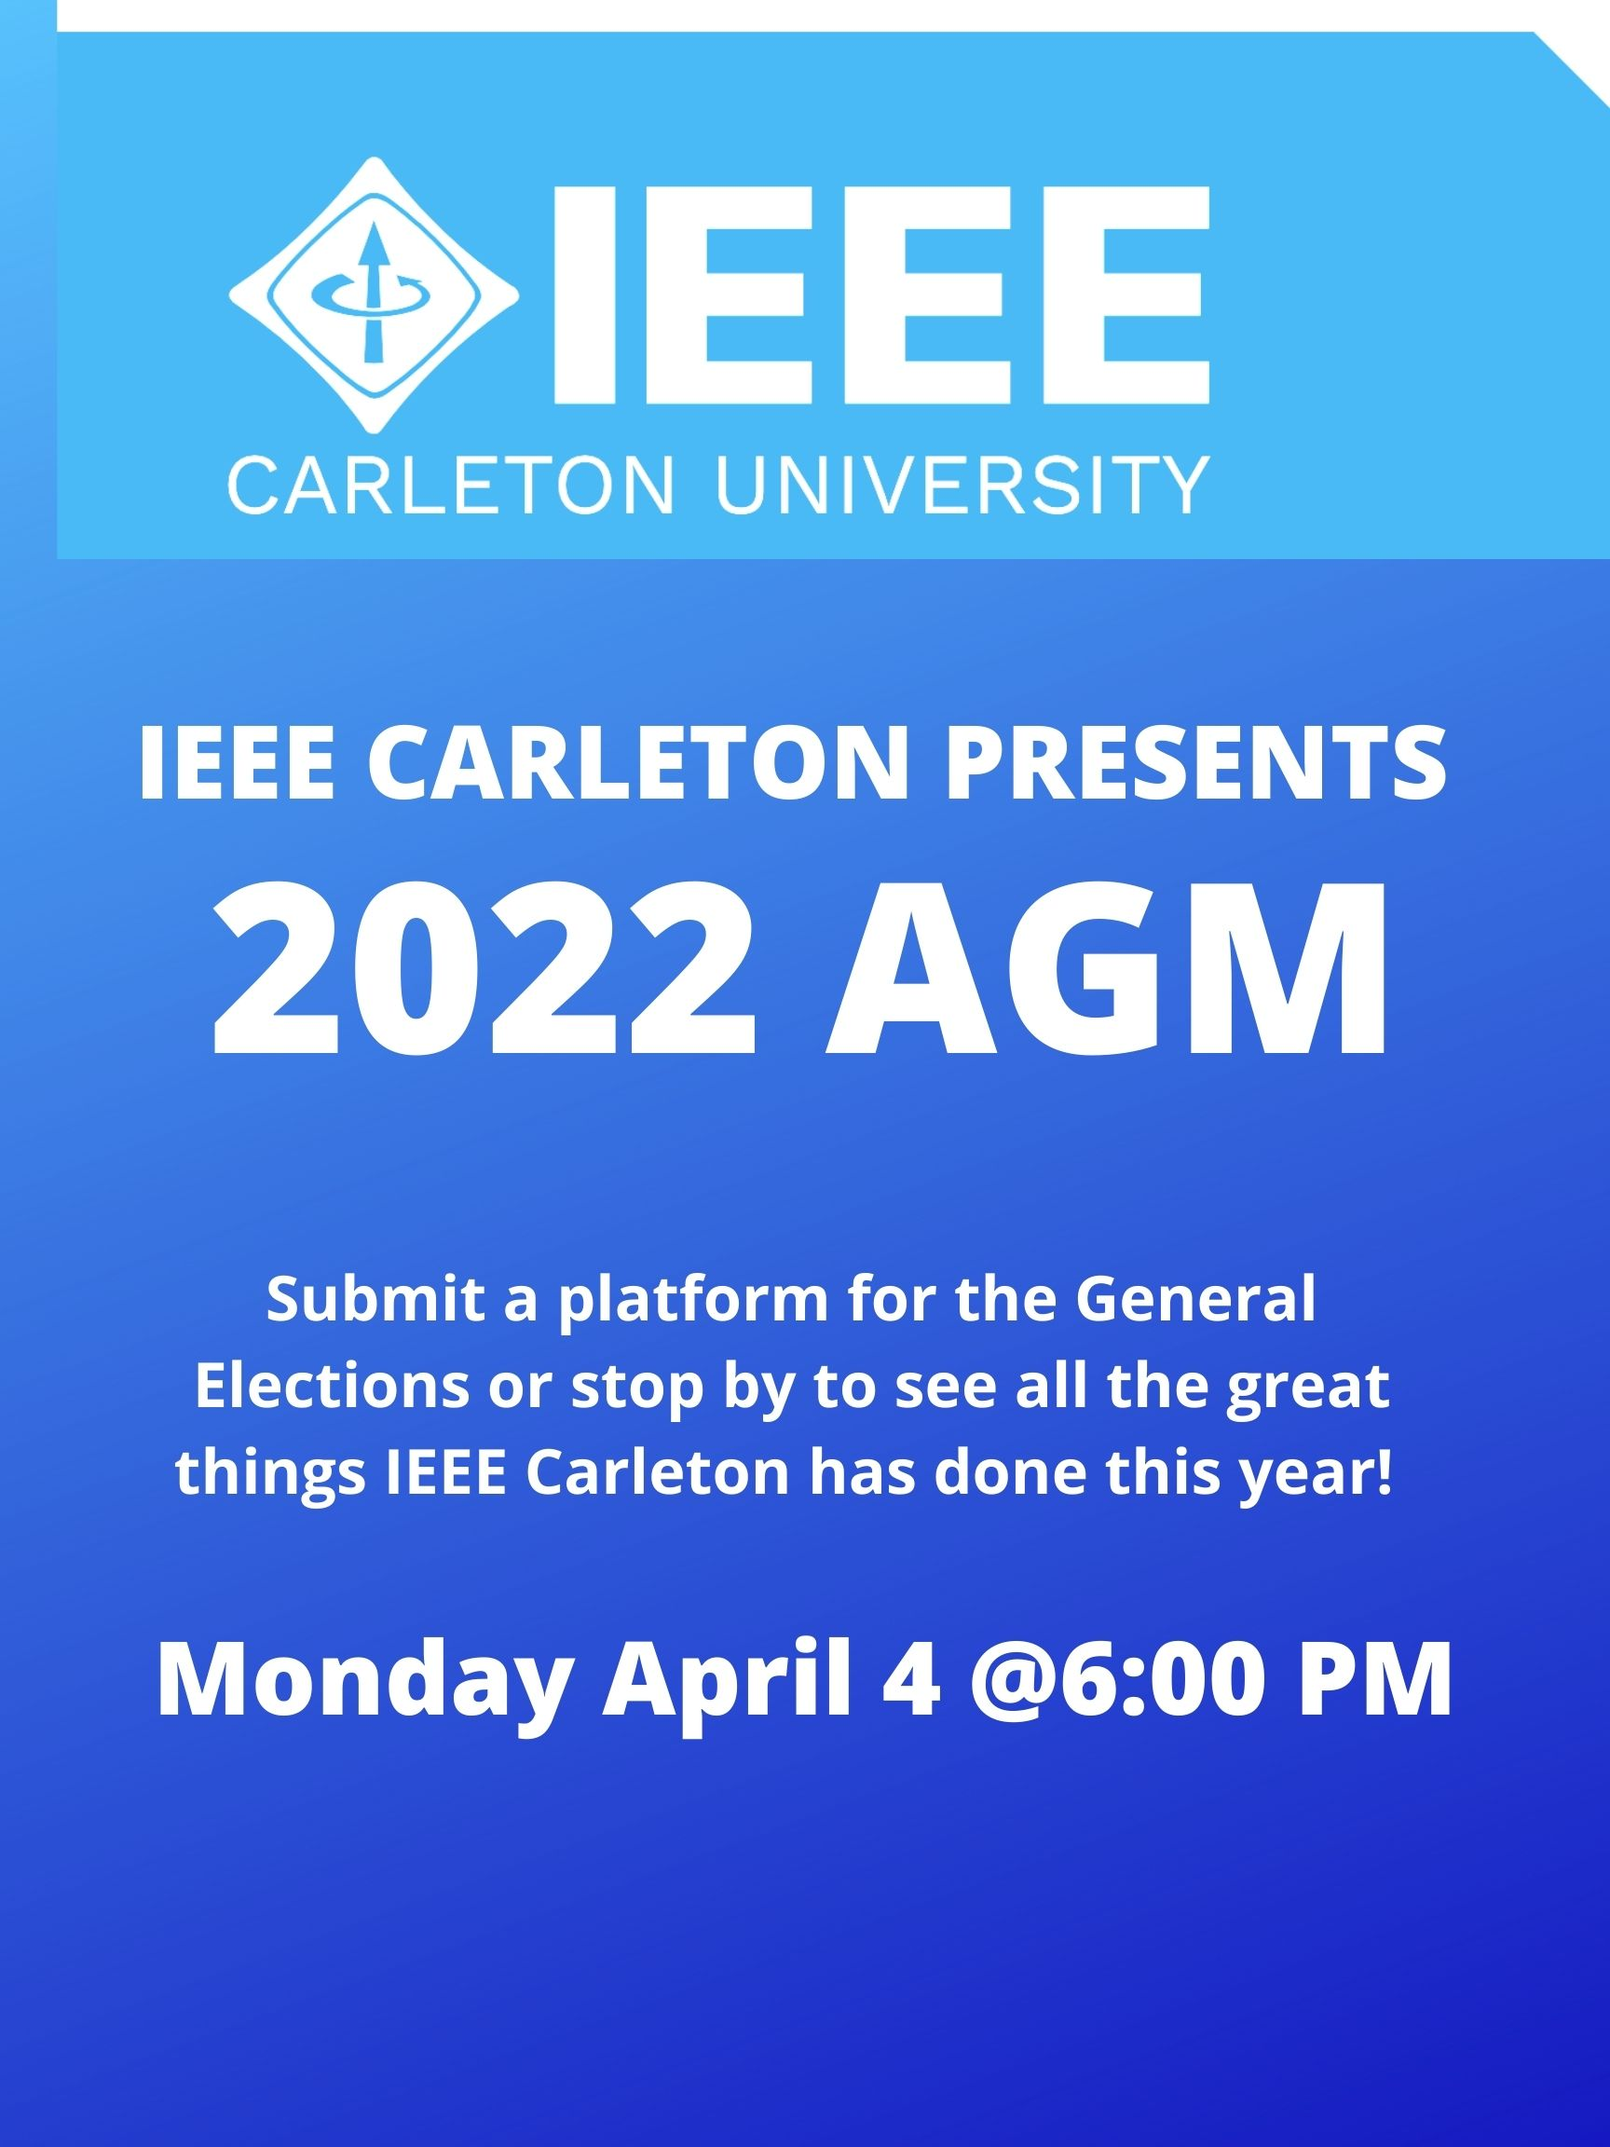
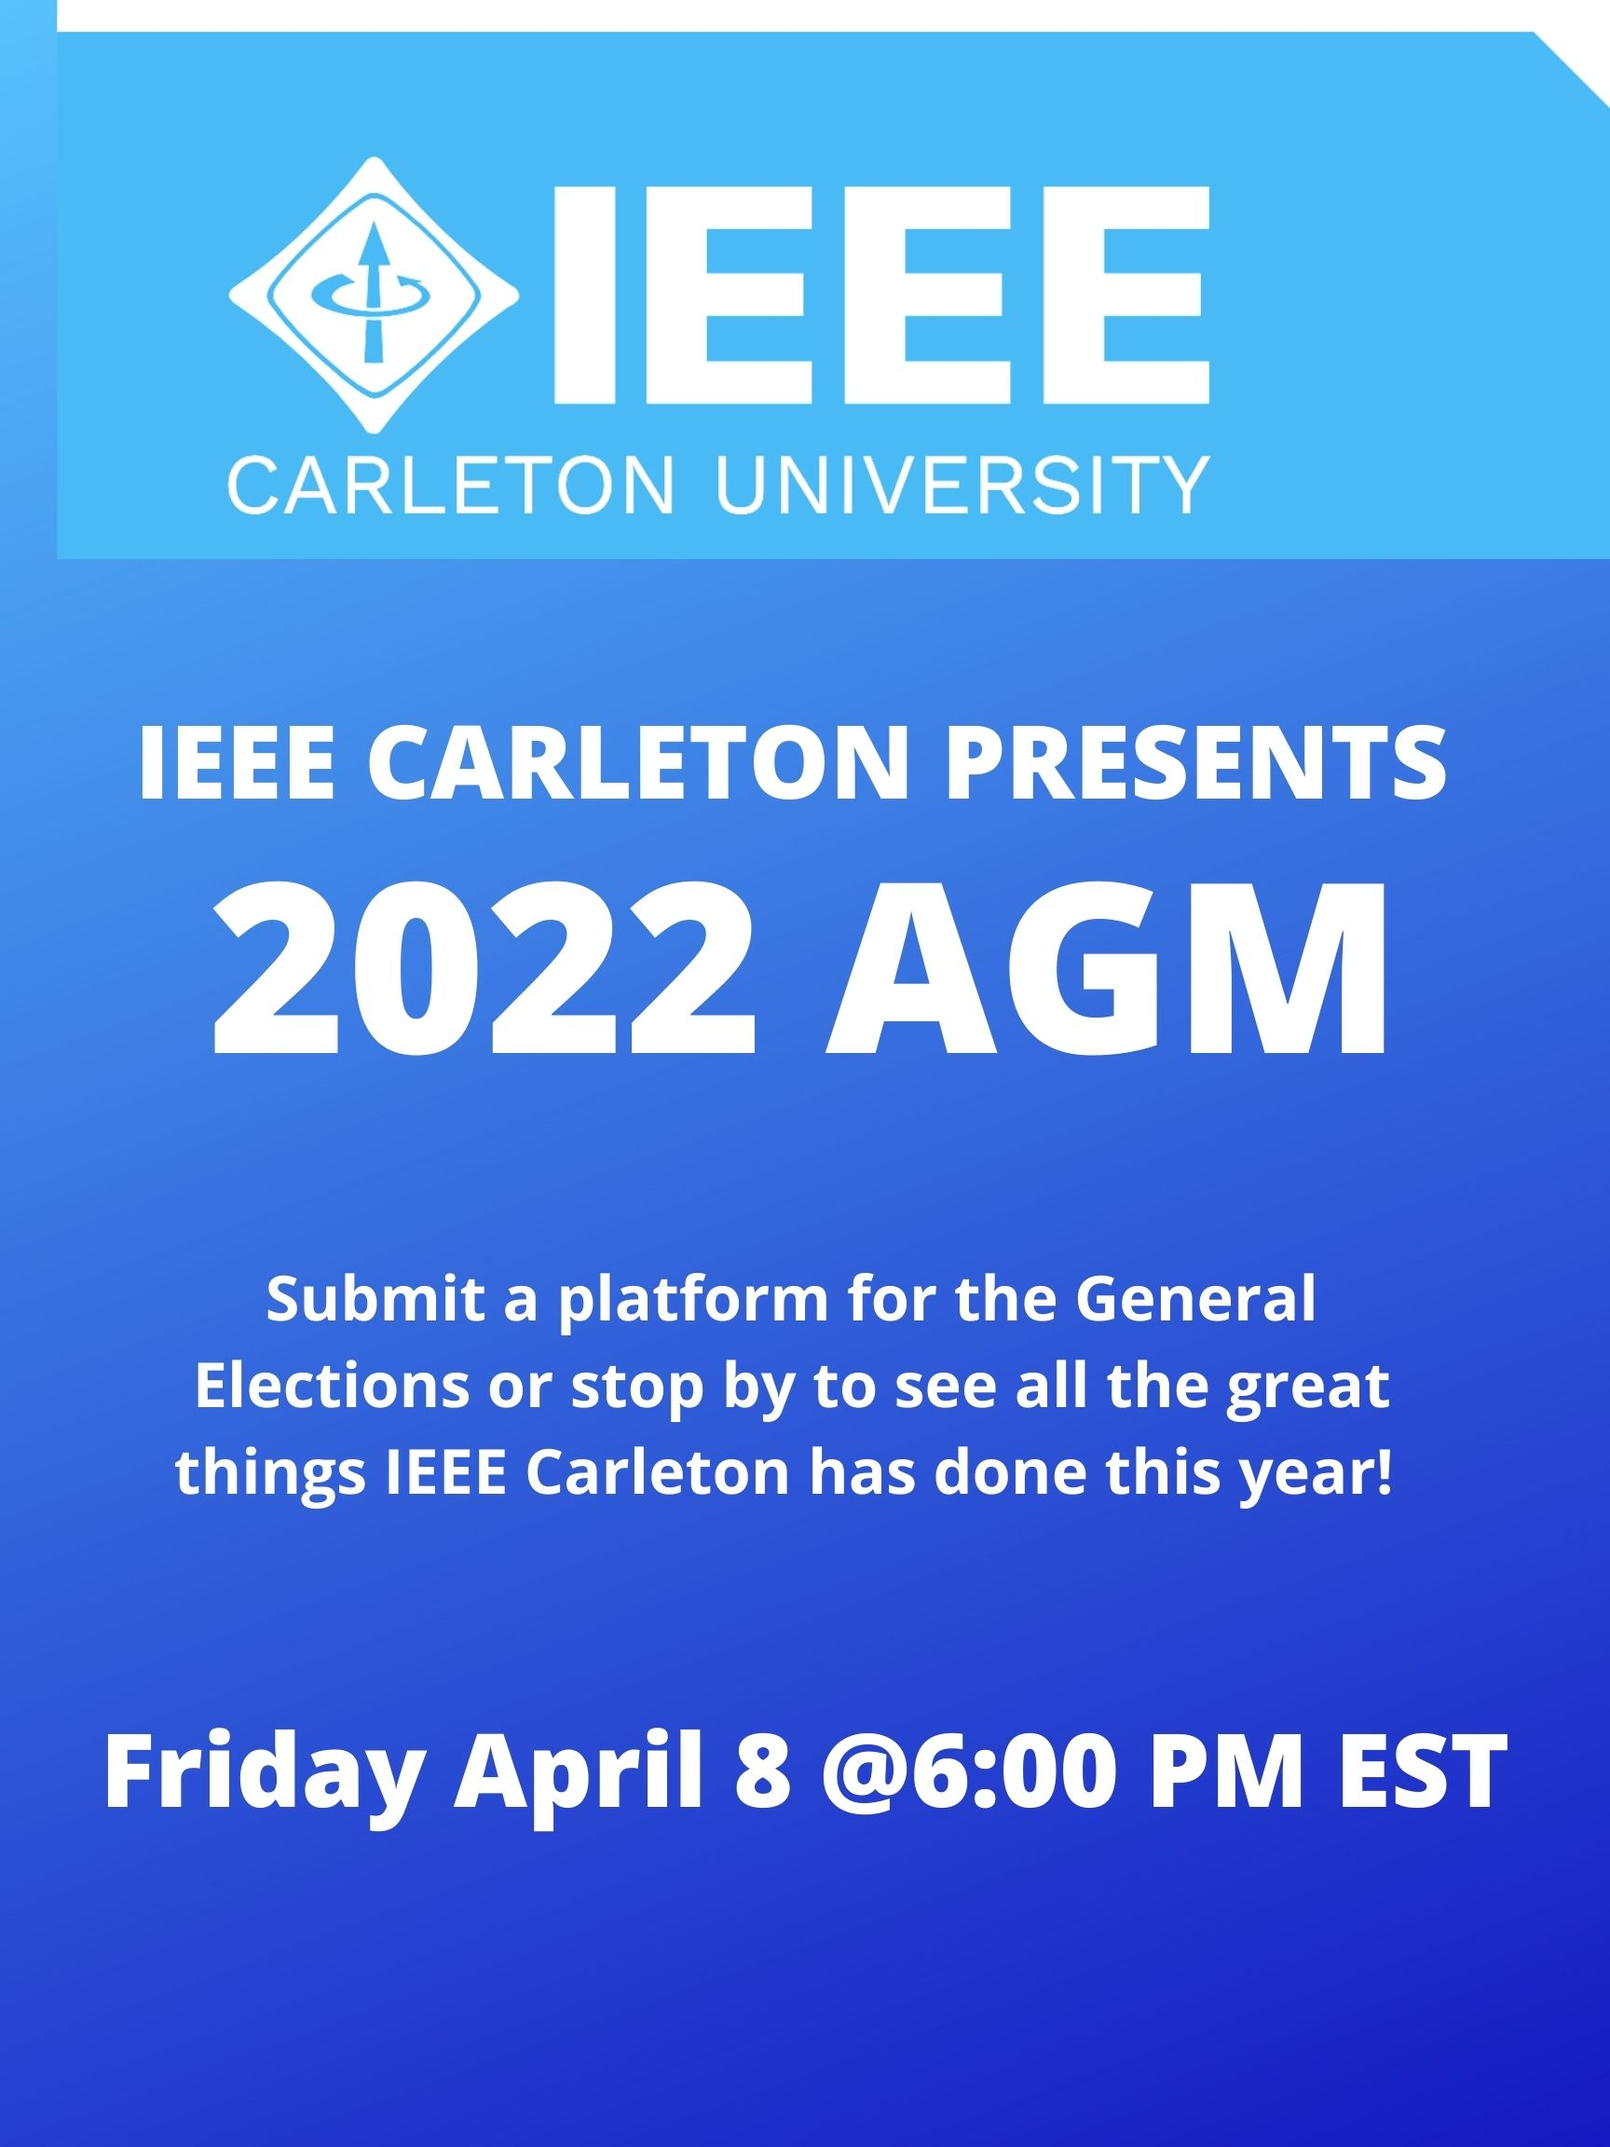
sd

Changed region(s): [[0.0625, 0.75, 0.9375, 0.875]]

diff --git a/output/2022-03-29.html b/output/2022-03-29.html
@@ -1,1 +1,1 @@
-<html lang="en"><head><meta charSet="utf-8"/><meta name="viewport" content="width=device-width, initial-scale=1, minimum-scale=1, maximum-scale=1"/><link rel="stylesheet" href="style.css"/><title>IEEE Carleton Newsletter 2022-03-29 </title></head><body><div style="font-family:Helvetica;margin:auto;width:100%;max-width:700px;padding-top:5vh 0 5vh 0;background-color:rgb(246, 250, 255);border-radius:10px"><div style="padding:0 2vw 2vh 2vw"><div><a style="width:40vw;margin:auto" href="https://ieeecarleton.ca" target="_blank"><img width="100%" src="https://raw.githubusercontent.com/CarletonSLAM/CarletonNewsletter/master/img/branch_logo_blue.png"/></a><div style="color:rgb(0, 98, 155);text-align:center;font-size:22px"><h2>Keeping up with IEEE Carleton.</h2><p>Feel free to forward this newsletter to anyone you think might be interested.</p><div>If you are having trouble viewing this as an email, click <a href='http://staylateandmake.ca/CarletonNewsletter/output/2022-03-29.html'>here</a> to view in browser.</div></div><div style="color:rgb(0, 98, 155);text-align:center;font-size:0.9rem"><div style="margin-bottom:1vh"><span><a target="_blank" style="display:inline-block;position:relative;height:40px;line-height:40px;border-radius:5px;font-size:20px;font-weight:bold;background-color:rgb(0, 98, 155);color:#fff;text-decoration:none;padding:0 15px;margin:10px 20px 10px 20px;width:120px" href="https://www.facebook.com/ieeecarleton"><span>FACEBOOK</span></a>  </span><span><a target="_blank" style="display:inline-block;position:relative;height:40px;line-height:40px;border-radius:5px;font-size:20px;font-weight:bold;background-color:rgb(0, 98, 155);color:#fff;text-decoration:none;padding:0 15px;margin:10px 20px 10px 20px;width:120px" href="https://calendar.google.com/calendar/embed?src=aWVlZS5jYXJsZXRvbi5jYV8wb2Voc2hjYWdjdWwwZThwZTVlOWZpZTcwc0Bncm91cC5jYWxlbmRhci5nb29nbGUuY29t"><span>CALENDAR</span></a>  </span><span><a target="_blank" style="display:inline-block;position:relative;height:40px;line-height:40px;border-radius:5px;font-size:20px;font-weight:bold;background-color:rgb(0, 98, 155);color:#fff;text-decoration:none;padding:0 15px;margin:10px 20px 10px 20px;width:120px" href="https://twitter.com/ieeecu"><span>TWITTER</span></a>  </span></div></div></div><div style="border:rgb(0, 98, 155) 5px solid;background-color:#fff;color:#00629B;text-align:center;margin:3vh;padding-bottom:2vh"><div style="padding:1.2vh 0 1.2vh 0;font-size:2rem;background-color:rgb(0, 127, 202);color:#FFF;font-weight:bold">IEEE CARLETON 2022 AGM</div><div><img width="100%" src="https://raw.githubusercontent.com/CarletonSLAM/CarletonNewsletter/master/img/2022 AGM (1).pdf"/></div><div style="padding:2vh 0 0 0;font-size:1.3rem;font-weight:bold"><div>Date: Friday April 8, 2022</div><div>Time: 6:00 PM</div><div>Location: Online Event</div></div><div style="padding:1vh 10px 0 10px"><p>IEEE Carleton will be holding its virtual Annual General Meeting (AGM) for 2022 and General Elections at 6:00 PM on Friday, April 8! During the meeting, we&#x27;ll be reviewing all the great events be held throughout the year, listening to platforms from officer and executive position candidates, and playing some fun games.</p><p>Every position is open, and each one gives students unique opportunities to apply their leadership skills while networking with professionals from the world&#x27;s largest international technology institute, so I encourage you all to apply!</p><p>To run for a position, fill out a platform similar to the example below and email it to chair@ieeecarleton.ca before the AGM.</p><p>We are excited to share IEEE Carleton&#x27;s activities with you all, and we can&#x27;t wait to meet you all!</p><p>See you soon!</p><p><a target="_blank" href="https://bit.ly/39IsLLX" style="display:inline-block;position:relative;height:40px;line-height:40px;border-radius:5px;font-size:20px;font-weight:bold;background-color:rgb(0, 98, 155);color:#fff;text-decoration:none;padding:0 15px"><span>MORE DETAILS</span></a></p><p><a target="_blank" href="https://bit.ly/3ohHUfQ" style="display:inline-block;position:relative;height:40px;line-height:40px;border-radius:5px;font-size:20px;font-weight:bold;background-color:rgb(0, 98, 155);color:#fff;text-decoration:none;padding:0 15px"><span>EX. POSITION</span></a></p><p><a target="_blank" href="https://meet.google.com/wfq-voto-zft" style="display:inline-block;position:relative;height:40px;line-height:40px;border-radius:5px;font-size:20px;font-weight:bold;background-color:rgb(0, 98, 155);color:#fff;text-decoration:none;padding:0 15px"><span>MEETS LINK</span></a></p></div></div><div style="border:rgb(0, 98, 155) 5px solid;background-color:#fff;color:#00629B;text-align:center;margin:3vh;padding-bottom:2vh"><div style="padding:1.2vh 0 1.2vh 0;font-size:2rem;background-color:rgb(0, 127, 202);color:#FFF;font-weight:bold">13th Annual Wine &amp; Cheese</div><div style="padding:2vh 0 0 0;font-size:1.3rem;font-weight:bold"><div>Date: Friday April 1, 2022</div><div>Time: 7:00 - 10:00 PM</div><div>Location: Canadian Museum of Nature (240 McLeod St, Ottawa, ON K2P 2R1)</div></div><div style="padding:1vh 10px 0 10px"><p>Tickets for the 2022 Wine and Cheese are available! Come out April 1st to the Canadian Museum of Nature for a sweet networking event with music and food! Would love to see lots of people there</p><p><a target="_blank" href="https://www.celebratewie.ca/" style="display:inline-block;position:relative;height:40px;line-height:40px;border-radius:5px;font-size:20px;font-weight:bold;background-color:rgb(0, 98, 155);color:#fff;text-decoration:none;padding:0 15px"><span>OFFICIAL WEBSITE</span></a></p><p><a target="_blank" href="https://ieee-uottawa.square.site/" style="display:inline-block;position:relative;height:40px;line-height:40px;border-radius:5px;font-size:20px;font-weight:bold;background-color:rgb(0, 98, 155);color:#fff;text-decoration:none;padding:0 15px"><span>IEEE UOTTAWA SITE</span></a></p></div></div><div style="text-align:center;color:rgb(0, 98, 155);font-size:15px"><div><span><a target="_blank" style="color:rgb(0, 98, 155);font-weight:bold" href="https://ieeecarleton.ca/events.php"><span style="color:rgb(0, 98, 155);font-weight:bold">EVENTS</span></a> | </span><span><a target="_blank" style="color:rgb(0, 98, 155);font-weight:bold" href="https://ieeecarleton.ca/volunteer.php"><span style="color:rgb(0, 98, 155);font-weight:bold">VOLUNTEER SIGN UP</span></a> | </span><span><a target="_blank" style="color:rgb(0, 98, 155);font-weight:bold" href="mailto:info@ieeecarleton.ca"><span style="color:rgb(0, 98, 155);font-weight:bold">CONTACT US</span></a>  </span></div><p>Newsletter made by:</p><p>IEEE Carleton University Student Branch</p></div></div></div></body></html>
+<html lang="en"><head><meta charSet="utf-8"/><meta name="viewport" content="width=device-width, initial-scale=1, minimum-scale=1, maximum-scale=1"/><link rel="stylesheet" href="style.css"/><title>IEEE Carleton Newsletter 2022-03-29 </title></head><body><div style="font-family:Helvetica;margin:auto;width:100%;max-width:700px;padding-top:5vh 0 5vh 0;background-color:rgb(246, 250, 255);border-radius:10px"><div style="padding:0 2vw 2vh 2vw"><div><a style="width:40vw;margin:auto" href="https://ieeecarleton.ca" target="_blank"><img width="100%" src="https://raw.githubusercontent.com/CarletonSLAM/CarletonNewsletter/master/img/branch_logo_blue.png"/></a><div style="color:rgb(0, 98, 155);text-align:center;font-size:22px"><h2>Keeping up with IEEE Carleton.</h2><p>Feel free to forward this newsletter to anyone you think might be interested.</p><div>If you are having trouble viewing this as an email, click <a href='http://staylateandmake.ca/CarletonNewsletter/output/2022-03-29.html'>here</a> to view in browser.</div></div><div style="color:rgb(0, 98, 155);text-align:center;font-size:0.9rem"><div style="margin-bottom:1vh"><span><a target="_blank" style="display:inline-block;position:relative;height:40px;line-height:40px;border-radius:5px;font-size:20px;font-weight:bold;background-color:rgb(0, 98, 155);color:#fff;text-decoration:none;padding:0 15px;margin:10px 20px 10px 20px;width:120px" href="https://www.facebook.com/ieeecarleton"><span>FACEBOOK</span></a>  </span><span><a target="_blank" style="display:inline-block;position:relative;height:40px;line-height:40px;border-radius:5px;font-size:20px;font-weight:bold;background-color:rgb(0, 98, 155);color:#fff;text-decoration:none;padding:0 15px;margin:10px 20px 10px 20px;width:120px" href="https://calendar.google.com/calendar/embed?src=aWVlZS5jYXJsZXRvbi5jYV8wb2Voc2hjYWdjdWwwZThwZTVlOWZpZTcwc0Bncm91cC5jYWxlbmRhci5nb29nbGUuY29t"><span>CALENDAR</span></a>  </span><span><a target="_blank" style="display:inline-block;position:relative;height:40px;line-height:40px;border-radius:5px;font-size:20px;font-weight:bold;background-color:rgb(0, 98, 155);color:#fff;text-decoration:none;padding:0 15px;margin:10px 20px 10px 20px;width:120px" href="https://twitter.com/ieeecu"><span>TWITTER</span></a>  </span></div></div></div><div style="border:rgb(0, 98, 155) 5px solid;background-color:#fff;color:#00629B;text-align:center;margin:3vh;padding-bottom:2vh"><div style="padding:1.2vh 0 1.2vh 0;font-size:2rem;background-color:rgb(0, 127, 202);color:#FFF;font-weight:bold">IEEE CARLETON 2022 AGM</div><div><img width="100%" src="https://raw.githubusercontent.com/CarletonSLAM/CarletonNewsletter/master/img/2022 AGM.jpg"/></div><div style="padding:2vh 0 0 0;font-size:1.3rem;font-weight:bold"><div>Date: Friday April 8, 2022</div><div>Time: 6:00 PM</div><div>Location: Online Event</div></div><div style="padding:1vh 10px 0 10px"><p>IEEE Carleton will be holding its virtual Annual General Meeting (AGM) for 2022 and General Elections at 6:00 PM on Friday, April 8! During the meeting, we&#x27;ll be reviewing all the great events be held throughout the year, listening to platforms from officer and executive position candidates, and playing some fun games.</p><p>Every position is open, and each one gives students unique opportunities to apply their leadership skills while networking with professionals from the world&#x27;s largest international technology institute, so I encourage you all to apply!</p><p>To run for a position, fill out a platform similar to the example below and email it to chair@ieeecarleton.ca before the AGM.</p><p>We are excited to share IEEE Carleton&#x27;s activities with you all, and we can&#x27;t wait to meet you all!</p><p>See you soon!</p><p><a target="_blank" href="https://bit.ly/39IsLLX" style="display:inline-block;position:relative;height:40px;line-height:40px;border-radius:5px;font-size:20px;font-weight:bold;background-color:rgb(0, 98, 155);color:#fff;text-decoration:none;padding:0 15px"><span>MORE DETAILS</span></a></p><p><a target="_blank" href="https://bit.ly/3ohHUfQ" style="display:inline-block;position:relative;height:40px;line-height:40px;border-radius:5px;font-size:20px;font-weight:bold;background-color:rgb(0, 98, 155);color:#fff;text-decoration:none;padding:0 15px"><span>EX. POSITION</span></a></p><p><a target="_blank" href="https://meet.google.com/wfq-voto-zft" style="display:inline-block;position:relative;height:40px;line-height:40px;border-radius:5px;font-size:20px;font-weight:bold;background-color:rgb(0, 98, 155);color:#fff;text-decoration:none;padding:0 15px"><span>MEETS LINK</span></a></p></div></div><div style="border:rgb(0, 98, 155) 5px solid;background-color:#fff;color:#00629B;text-align:center;margin:3vh;padding-bottom:2vh"><div style="padding:1.2vh 0 1.2vh 0;font-size:2rem;background-color:rgb(0, 127, 202);color:#FFF;font-weight:bold">13th Annual Wine &amp; Cheese</div><div style="padding:2vh 0 0 0;font-size:1.3rem;font-weight:bold"><div>Date: Friday April 1, 2022</div><div>Time: 7:00 - 10:00 PM</div><div>Location: Canadian Museum of Nature (240 McLeod St, Ottawa, ON K2P 2R1)</div></div><div style="padding:1vh 10px 0 10px"><p>Tickets for the 2022 Wine and Cheese are available! Come out April 1st to the Canadian Museum of Nature for a sweet networking event with music and food! Would love to see lots of people there</p><p><a target="_blank" href="https://www.celebratewie.ca/" style="display:inline-block;position:relative;height:40px;line-height:40px;border-radius:5px;font-size:20px;font-weight:bold;background-color:rgb(0, 98, 155);color:#fff;text-decoration:none;padding:0 15px"><span>OFFICIAL WEBSITE</span></a></p><p><a target="_blank" href="https://ieee-uottawa.square.site/" style="display:inline-block;position:relative;height:40px;line-height:40px;border-radius:5px;font-size:20px;font-weight:bold;background-color:rgb(0, 98, 155);color:#fff;text-decoration:none;padding:0 15px"><span>IEEE UOTTAWA SITE</span></a></p></div></div><div style="text-align:center;color:rgb(0, 98, 155);font-size:15px"><div><span><a target="_blank" style="color:rgb(0, 98, 155);font-weight:bold" href="https://ieeecarleton.ca/events.php"><span style="color:rgb(0, 98, 155);font-weight:bold">EVENTS</span></a> | </span><span><a target="_blank" style="color:rgb(0, 98, 155);font-weight:bold" href="https://ieeecarleton.ca/volunteer.php"><span style="color:rgb(0, 98, 155);font-weight:bold">VOLUNTEER SIGN UP</span></a> | </span><span><a target="_blank" style="color:rgb(0, 98, 155);font-weight:bold" href="mailto:info@ieeecarleton.ca"><span style="color:rgb(0, 98, 155);font-weight:bold">CONTACT US</span></a>  </span></div><p>Newsletter made by:</p><p>IEEE Carleton University Student Branch</p></div></div></div></body></html>

diff --git a/models/newsletters/2022-03-29.js b/models/newsletters/2022-03-29.js
@@ -19,7 +19,7 @@ module.exports = {
         date: `Friday April 8, 2022`,
         time: `6:00 PM`,
         location: `Online Event`,
-        img: `2022 AGM (1).pdf`,
+        img: `2022 AGM.jpg`,
         body: [
           {
               tag: 'p',
